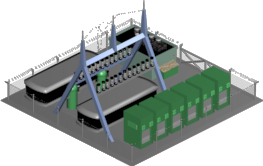
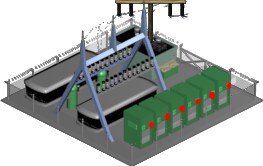
New Minimap: traffic. Press Pollution Button to toggle Pollution/Traffic.

diff --git a/trunk/src/lincity-ng/MiniMap.cpp b/trunk/src/lincity-ng/MiniMap.cpp
@@ -199,24 +199,28 @@ void MiniMap::mapViewButtonClicked(CheckButton* button, int)
     }
 
     switch(i) {
-        case 0: mMode=NORMAL;getGameView()->setMapMode(NORMAL);break;
-        case 1: mMode=UB40;getGameView()->setMapMode(UB40);break;
-        case 2: mMode=POLLUTION;getGameView()->setMapMode(POLLUTION);break;
-        case 3: mMode=STARVE;getGameView()->setMapMode(STARVE);break;
-        case 4: mMode=POWER;getGameView()->setMapMode(POWER);break;
-        case 5: mMode=FIRE;getGameView()->setMapMode(FIRE);break;
-        case 6: mMode=CRICKET;getGameView()->setMapMode(CRICKET);break;
-        case 7: mMode=HEALTH;getGameView()->setMapMode(HEALTH);break;
+        case 0: mMode=NORMAL;break;
+        case 1: mMode=UB40;break;
+        case 2: if(mMode == POLLUTION){
+                   mMode = TRAFFIC;
+                } else {
+                   mMode = POLLUTION;
+                }
+                break;
+        case 3: mMode=STARVE;break;
+        case 4: mMode=POWER;break;
+        case 5: mMode=FIRE;break;
+        case 6: mMode=CRICKET;break;
+        case 7: mMode=HEALTH;break;
         case 8: if(( coal_survey_done == 0 ) && ( !blockingDialogIsOpen )){
                     new Dialog( ASK_COAL_SURVEY ); 
                 }
                 mMode=COAL;
-                getGameView()->setMapMode(COAL);
                 break;
         default:
             assert(false);
     }
-    
+    getGameView()->setMapMode( mMode ); 
     mFullRefresh=true;
 }
 
@@ -482,6 +486,36 @@ Color MiniMap::getColor(int x,int y) const
 	  mc=light(mc,brightness(getColorNormal(x,y)));
 	return mc;
       }
+    case TRAFFIC:
+    {
+	    if ( MP_INFO(x,y).flags & FLAG_IS_TRANSPORT ) 
+	    {
+            float max = MP_INFO(x,y).int_1 * 100.0 / MAX_FOOD_ON_ROAD;
+		    float nextValue = MP_INFO(x,y).int_2 * 100.0 / MAX_JOBS_ON_ROAD;
+            if( nextValue > max ){ max = nextValue; }
+		    nextValue = MP_INFO(x,y).int_3 * 100.0 / MAX_COAL_ON_ROAD;
+            if( nextValue > max ){ max = nextValue; }
+		    nextValue = MP_INFO(x,y).int_4 * 100.0 / MAX_GOODS_ON_ROAD;
+            if( nextValue > max ){ max = nextValue; }
+		    nextValue = MP_INFO(x,y).int_5 * 100.0 / MAX_ORE_ON_ROAD;
+            if( nextValue > max ){ max = nextValue; }
+            nextValue = MP_INFO(x,y).int_6 * 100.0 / MAX_STEEL_ON_ROAD;
+            if( nextValue > max ){ max = nextValue; }
+            nextValue = MP_INFO(x,y).int_7 * 100.0 / MAX_WASTE_ON_ROAD;
+            if( nextValue > max ){ max = nextValue; }
+
+	        if( max > 99 )          //red
+	            return Color(0xFF,0,0);
+	        else if ( max > 85 )    //orange
+	            return Color(0xFF,0x99,0); 
+	        else if ( max > 50 )    //yellow
+	            return Color(0xFF,0xFF,0); 
+	        else                    //green
+	            return Color(0,0xFF,0); 
+	    } else {
+	        return makeGrey(getColorNormal(x,y));
+	    }
+    }
     case MAX:
       std::cerr<<"Undefined MiniMap-Display-type!"<<std::endl;
     };

diff --git a/trunk/src/lincity-ng/GameView.cpp b/trunk/src/lincity-ng/GameView.cpp
@@ -220,6 +220,37 @@ void GameView::writeOrigin(){
  */
 void GameView::setMapMode( MiniMap::DisplayMode mMode ) {
     mapMode = mMode;
+    switch( mMode ){
+        case MiniMap::NORMAL:
+            printStatusMessage( _("Minimap: outline map") );
+            break;
+        case MiniMap::POLLUTION:
+            printStatusMessage( _("Minimap: pollution") );
+            break;
+        case MiniMap::STARVE:
+            printStatusMessage( _("Minimap: nourishments") );
+            break;
+        case MiniMap::POWER:
+            printStatusMessage( _("Minimap: power supply") );
+            break;
+        case MiniMap::FIRE: 
+            printStatusMessage( _("Minimap: firedepartment cover") );
+            break;
+        case MiniMap::CRICKET: 
+            printStatusMessage( _("Minimap: sport cover") );
+            break;
+        case MiniMap::HEALTH: 
+            printStatusMessage( _("Minimap: medical care") );
+            break;
+        case MiniMap::COAL: 
+            printStatusMessage( _("Minimap: coal depots") );
+            break;
+        case MiniMap::TRAFFIC: 
+            printStatusMessage( _("Minimap: traffic density") );
+            break;
+        default:
+            std::cerr << "Unknown minimap mode " << mMode<<"\n";
+    }
     if( mapOverlay != overlayNone ){
         requestRedraw();
     }

diff --git a/trunk/src/lincity-ng/MiniMap.hpp b/trunk/src/lincity-ng/MiniMap.hpp
@@ -14,7 +14,7 @@ class CheckButton;
 class MiniMap:public Component
 {
 public:
-    enum DisplayMode {NORMAL,POLLUTION,UB40,STARVE,POWER,FIRE,CRICKET,HEALTH,COAL,MAX};
+    enum DisplayMode {NORMAL,POLLUTION,UB40,STARVE,POWER,FIRE,CRICKET,HEALTH,COAL,TRAFFIC,MAX};
 
     MiniMap();
     ~MiniMap();
